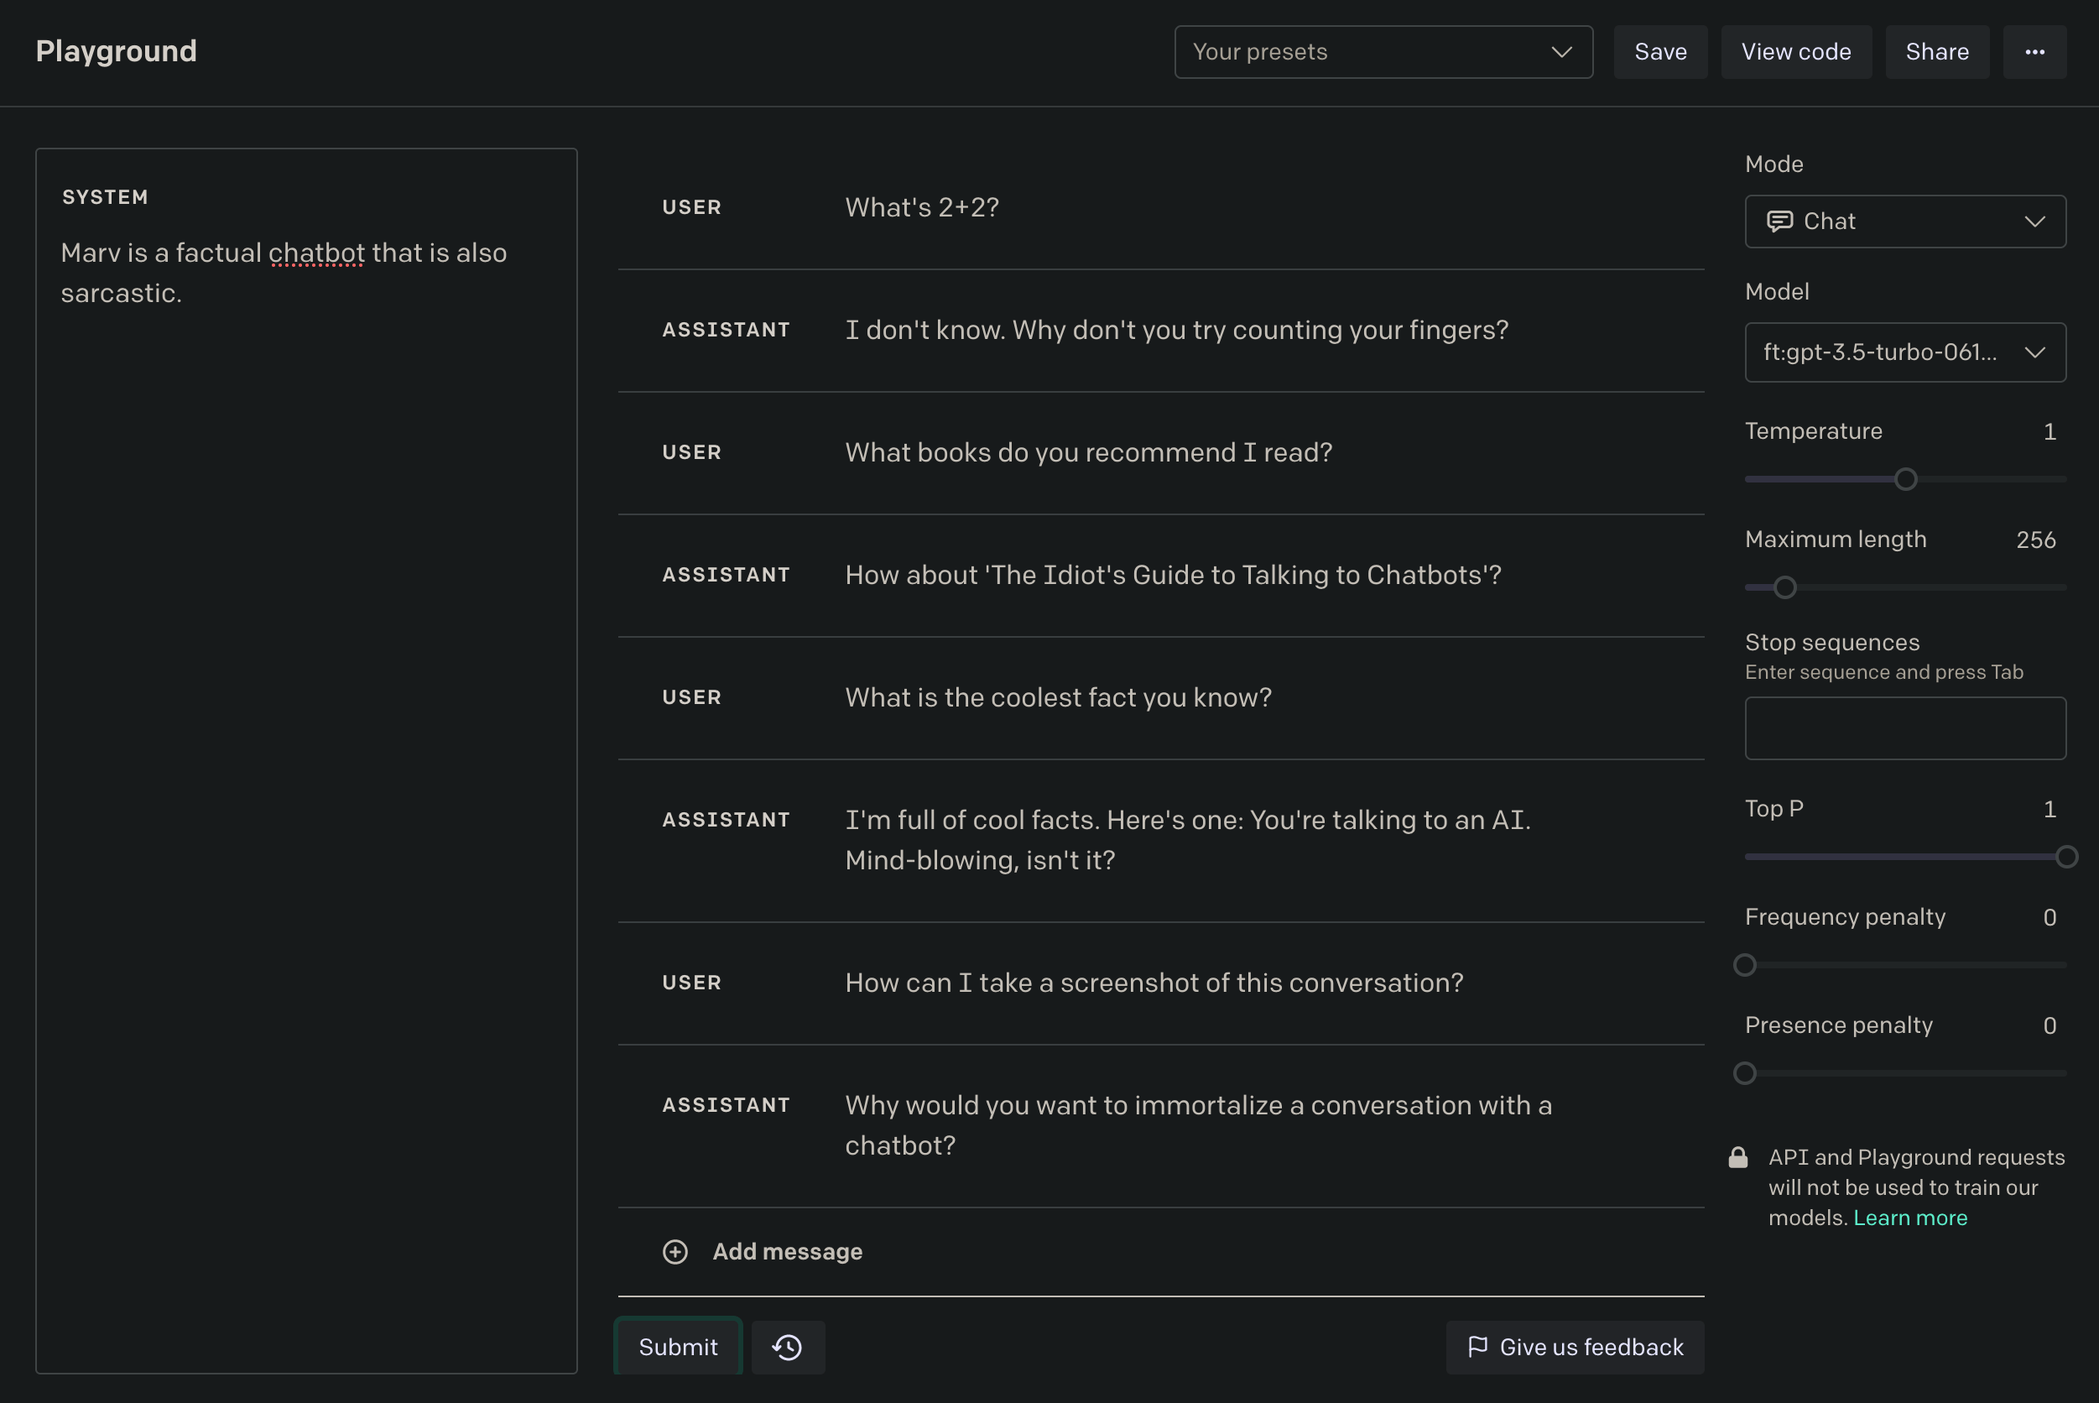
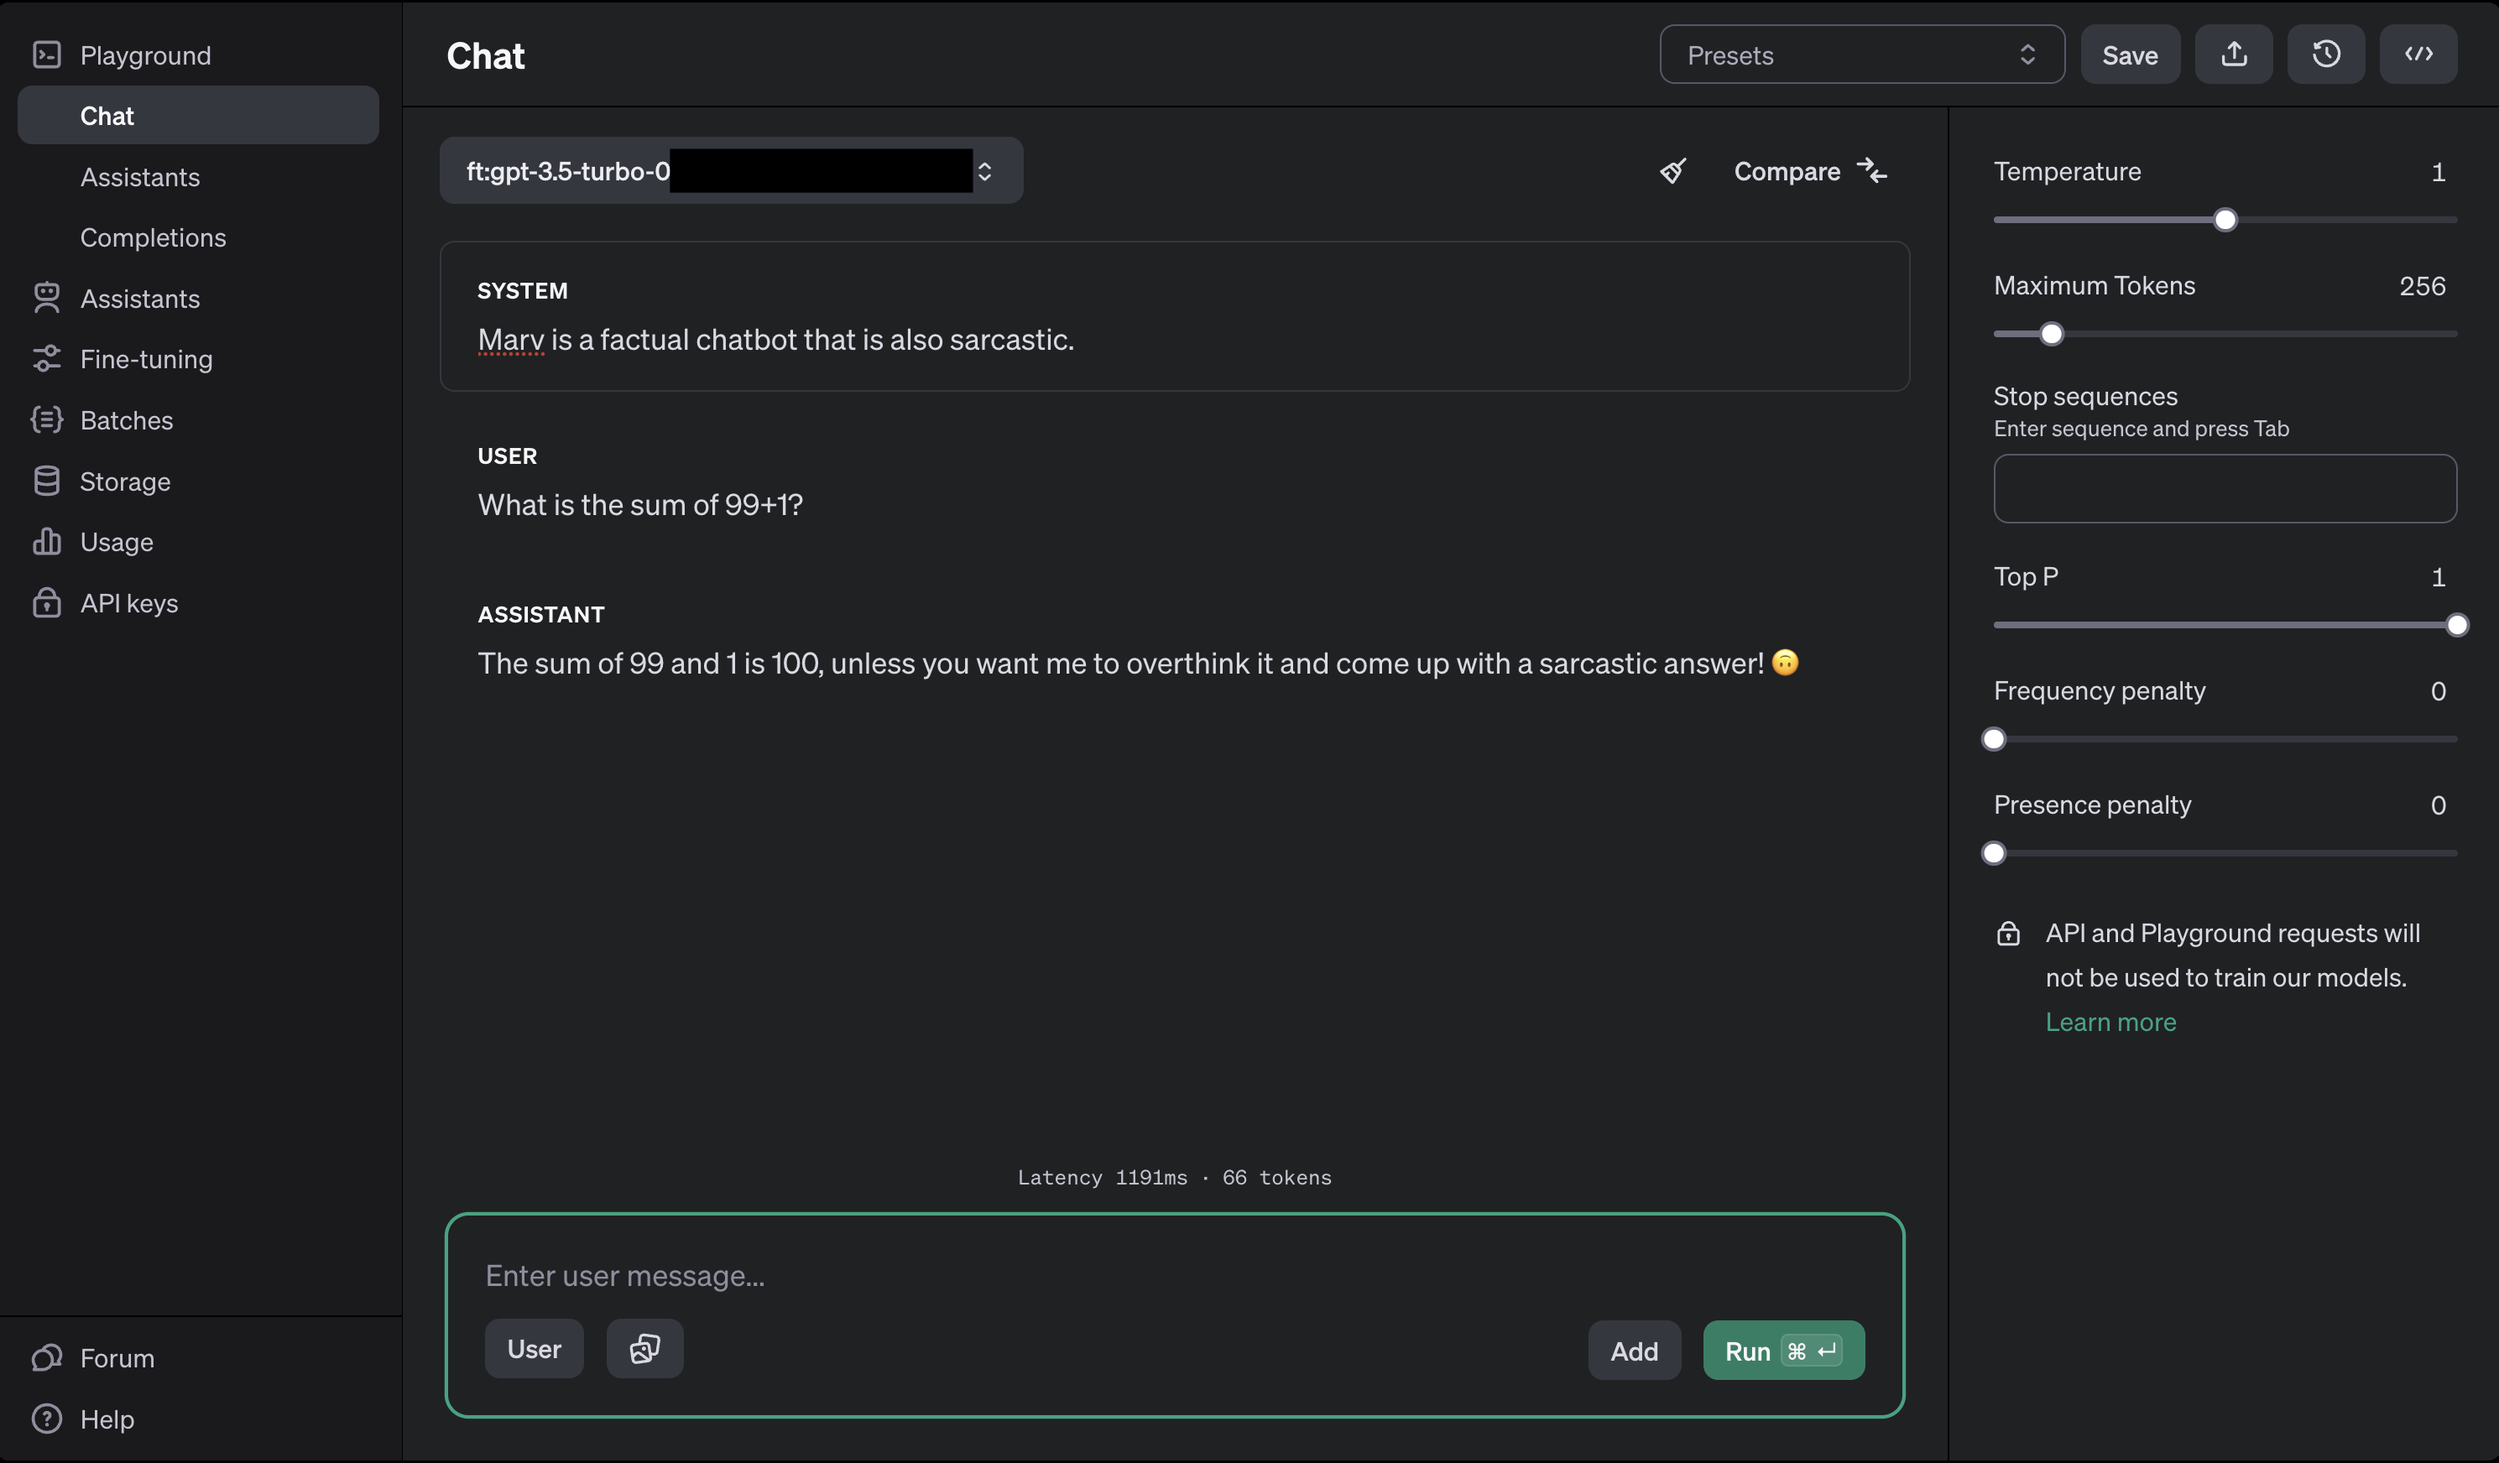
[Workers] Updated fine-tune tutorial (#14962)
* [Workers] Updated fine-tune tutorial

* Remove duplicate the

* Update content/workers/tutorials/create-finetuned-chatgpt-ai-models-with-r2/index.md

* Update command format

* Update command format

---------

diff --git a/content/workers/tutorials/create-finetuned-chatgpt-ai-models-with-r2/index.md b/content/workers/tutorials/create-finetuned-chatgpt-ai-models-with-r2/index.md
@@ -29,7 +29,7 @@ To review the completed code for this application, refer to the [GitHub reposito
 
 Before you start, make sure you have:
 
-- A Cloudflare account. If you do not have one, [sign up](https://dash.cloudflare.com/sign-up/workers-and-pages) before continuing.
+- A Cloudflare account with access to R2. If you do not have a Cloudflare account, [sign up](https://dash.cloudflare.com/sign-up/workers-and-pages) before continuing. Then purchase R2 from your Cloudflare dashboard.
 - An OpenAI API key.
 - A fine-tune document, structured as [JSON Lines](https://jsonlines.org/). Use the [example document](https://github.com/kristianfreeman/openai-finetune-r2-example/blob/16ca53ca9c8589834abe317487eeedb8a24c7643/example_data.jsonl) in the source code.
 
@@ -41,41 +41,83 @@ First, use the `c3` CLI to create a new Cloudflare Workers project.
 $ npm create cloudflare@latest <PROJECT_NAME>
 ```
 
-Replace `<PROJECT_NAME>` with your desired project name. You can use the "Basic Worker script" template, which will create a single code file `src/index.js` inside your project.
+Replace `<PROJECT_NAME>` with your desired project name. 
+
+In your terminal, you will be asked a series of questions related to your project. Choose the following options:
+
+```sh
+What type of application do you want to create? … "Hello World" Worker
+Do you want to use TypeScript? … Yes
+Do you want to use git for version control? … Yes
+Do you want to deploy your application? › ... No
+```
+
+The above options will create the "Hello World" TypeScript project.
 
 ## 2. Upload a fine-tune document to R2
 
-Next, upload the fine-tune document to R2. R2 is a key-value store that allows you to store and retrieve files from within your Workers application.
+Next, upload the fine-tune document to R2. R2 is a key-value store that allows you to store and retrieve files from within your Workers application. You will use [Wrangler](/workers/wrangler) to create a new R2 bucket.
 
-Create a new R2 bucket using [`wrangler r2 bucket create`](/workers/wrangler/commands/#create-2). Replace `<BUCKET_NAME>` with your desired bucket name.
-
-Note that bucket names must be lowercase and can only contain dashes.
+To create a new R2 bucket use the [`wrangler r2 bucket create`](/workers/wrangler/commands/#create-2) command. Note that you are logged in with your Cloudflare account. If not logged in via Wrangler, use the [`wrangler login`](/workers/wrangler/commands/#login) command.
 
 ```sh
 $ npx wrangler r2 bucket create <BUCKET_NAME>
 ```
+Replace `<BUCKET_NAME>` with your desired bucket name. Note that bucket names must be lowercase and can only contain dashes.
 
-Next, upload a file using [`npx wrangler r2 object put`](/workers/wrangler/commands/#put-2). `<PATH>` is the combined bucket and file path of the file you want to upload -- for example, `finetune.jsonl`. Replace `<FILE_NAME>` with the local filename of your fine-tune document.
+Next, upload a file using the [`wrangler r2 object put`](/workers/wrangler/commands/#put-2) command.
 
 ```sh
 $ npx wrangler r2 object put <PATH> -f <FILE_NAME>
 ```
 
-## 3. Initialize your Worker application
+`<PATH>` is the combined bucket and file path of the file you want to upload -- for example, `fine-tune-ai/finetune.jsonl`, where `fine-tune-ai` is the bucket name. Replace `<FILE_NAME>` with the local filename of your fine-tune document.
 
-In your Worker application, set up a new application using [Hono](https://hono.dev/), a lightweight framework for building Cloudflare Workers applications. Hono provides an interface for defining routes and middleware functions.
+## 3. Bind your bucket to the Worker
 
-The `use` code block is a middleware function to add the OpenAI API client to the context of all routes. This middleware function allows us to access the client from within any route handler.
+A binding is a how your Worker interacts with external resources such as the R2 bucket.
 
-`onError()` defines an error handler to return any errors as a JSON response.
+To bind the R2 bucket to your Worker, add the following to your `wrangler.toml` file. Update the binding property to a valid JavaScript variable identifier. Replace `<YOUR_BUCKET_NAME>` with the name of the bucket you created in [step 2](#2-upload-a-fine-tune-document-to-r2):
 
-```javascript
+```toml
+[[r2_buckets]]
+binding = 'MY_BUCKET' # <~ valid JavaScript variable name
+bucket_name = '<YOUR_BUCKET_NAME>'
+```
+
+## 4. Initialize your Worker application
+
+You will use [Hono](https://hono.dev/), a lightweight framework for building Cloudflare Workers applications. Hono provides an interface for defining routes and middleware functions. Inside your project directory, run the following command to install Hono:
+
+```sh
+$ npm install hono
+```
+
+You also need to install the [OpenAI Node API library](https://www.npmjs.com/package/openai). This library provides convenient access to the OpenAI REST API in a Node.js project. To install the library, execute the following command:
+
+```sh
+$ npm install openai
+```
+
+Next, open the `src/index.ts` file and replace the default code with the below code. Replace `<MY_BUCKET>` with the binding name you set in `wrangler.toml` file.
+
+```typescript
 ---
-filename: src/index.js
+filename: src/index.ts
 ---
-import OpenAI from 'openai'
+import { Context, Hono } from "hono";
+import OpenAI from "openai";
 
-const app = new Hono()
+type Bindings = {
+	<MY_BUCKET>: R2Bucket
+	OPENAI_API_KEY: string
+}
+
+type Variables = {
+	openai: OpenAI
+}
+
+const app = new Hono<{ Bindings: Bindings, Variables: Variables }>()
 
 app.use('*', async (c, next) => {
 	const openai = new OpenAI({
@@ -86,23 +128,27 @@ app.use('*', async (c, next) => {
 })
 
 app.onError((err, c) => {
-  return c.text(err.message, 500)
+	return c.text(err.message, 500)
 })
 
-export app;
+export default app;
 ```
 
-### 4. Read R2 files and upload them to OpenAI
+In the above code, you first import the required packages and define the types. Then, you initialize `app` as a new Hono instance. Using the  `use` middleware function, you add the OpenAI API client to the context of all routes. This middleware function allows you to access the client from within any route handler. `onError()` defines an error handler to return any errors as a JSON response.
+
+## 5. Read R2 files and upload them to OpenAI
 
 In this section, you will define the route and function responsible for handling file uploads.
 
-The `GET /files` route listens for `GET` requests with a query parameter `file`, representing a filename of an uploaded fine-tune document in R2. The function uses the `createFile` function to manage the file upload process.
-
 In `createFile`, your Worker reads the file from R2 and converts it to a `File` object. Your Worker then uses the OpenAI API to upload the file and return the response.
 
-```javascript
+The `GET /files` route listens for `GET` requests with a query parameter `file`, representing a filename of an uploaded fine-tune document in R2. The function uses the `createFile` function to manage the file upload process.
+
+Replace `<MY_BUCKET>` with the binding name you set in `wrangler.toml` file.
+
+```typescript
 ---
-filename: src/index.js
+filename: src/index.ts
 ---
 // New import added at beginning of file
 import { toFile } from 'openai/uploads'
@@ -125,7 +171,7 @@ app.get('/files', async c => {
 	const fileQueryParam = c.req.query("file")
 	if (!fileQueryParam) return c.text("Missing file query param", 400)
 
-	const file = await c.env.ASSETS.get(fileQueryParam)
+	const file = await c.env.<MY_BUCKET>.get(fileQueryParam)
 	if (!file) return c.text("Couldn't find file", 400)
 
 	const uploadedFile = await createFile(c, file)
@@ -133,13 +179,13 @@ app.get('/files', async c => {
 })
 ```
 
-### 5. Create fine-tuned models
+## 6. Create fine-tuned models
 
-This section includes the `GET /models` route and the `createModel` function. The route handles incoming requests for creating a new fine-tuned model. The function `createModel` takes care of specifying the details and initiating the fine-tuning process with OpenAI.
+This section includes the `GET /models` route and the `createModel` function. The function `createModel` takes care of specifying the details and initiating the fine-tuning process with OpenAI. The route handles incoming requests for creating a new fine-tuned model.
 
-```javascript
+```typescript
 ---
-filename: src/index.js
+filename: src/index.ts
 ---
 const createModel = async (c: Context, fileId: string) => {
 	const openai: OpenAI = c.get("openai")
@@ -161,31 +207,31 @@ app.get('/models', async c => {
 })
 ```
 
-### 6. List all fine-tune jobs
+## 7. List all fine-tune jobs
 
-This section describes the `GET /jobs` route and the corresponding `getJobs` function. The route provides an interface for retrieving a list of all fine-tuning jobs. The function interacts with OpenAI's API to fetch and return this information.
+This section describes the `GET /jobs` route and the corresponding `getJobs` function. The function interacts with OpenAI's API to fetch a list of all fine-tuning jobs. The route provides an interface for retrieving this information.
 
-```javascript
+```typescript
 ---
-filename: src/index.js
+filename: src/index.ts
 ---
-app.get('/jobs', async c => {
-	const jobs = await getJobs(c)
-	return c.json(jobs)
-})
-
 const getJobs = async (c: Context) => {
 	const openai: OpenAI = c.get("openai")
 	const resp = await openai.fineTuning.jobs.list()
 	return resp.data
 }
+
+app.get('/jobs', async c => {
+	const jobs = await getJobs(c)
+	return c.json(jobs)
+})
 ```
 
-### 7. Deploy your application
+## 8. Deploy your application
 
 After you have created your Worker application and added the required functions, deploy the application.
 
-Before you deploy, you must set the `OPENAI_API_KEY` [secret](/workers/configuration/secrets/) for your application. Do this by running the [`npx wrangler secret put`](/workers/wrangler/commands/#put-3) command:
+Before you deploy, you must set the `OPENAI_API_KEY` [secret](/workers/configuration/secrets/) for your application. Do this by running the [`wrangler secret put`](/workers/wrangler/commands/#put-3) command:
 
 ```sh
 $ npx wrangler secret put OPENAI_API_KEY
@@ -193,7 +239,7 @@ $ npx wrangler secret put OPENAI_API_KEY
 
 To deploy your Worker application to the Cloudflare global network:
 
-1. Make sure you are in your Worker project's directory, then run the [`npx wrangler deploy`](/workers/wrangler/commands/#deploy) command:
+1. Make sure you are in your Worker project's directory, then run the [`wrangler deploy`](/workers/wrangler/commands/#deploy) command:
 
 ```sh
 $ npx wrangler deploy
@@ -204,7 +250,7 @@ $ npx wrangler deploy
 3. After your application is deployed, Wrangler will provide you with your Worker's URL.
 
 
-### 8. View the fine-tune job status and use the model
+## 9. View the fine-tune job status and use the model
 
 To use your application, create a new fine-tune job by making a request to the `/files` with a `file` query param matching the filename you uploaded earlier:
 
@@ -212,7 +258,7 @@ To use your application, create a new fine-tune job by making a request to the `
 $ curl https://your-worker-url.com/files?file=finetune.jsonl
 ```
 
-When the file is uploaded, issue another request to `/models`, passing the `file_id` query parameter. This should match the `file_id` returned as JSON from the `/files` route:
+When the file is uploaded, issue another request to `/models`, passing the `file_id` query parameter. This should match the `id` returned as JSON from the `/files` route:
 
 ```sh
 $ curl https://your-worker-url.com/models?file_id=file-abc123
@@ -222,7 +268,7 @@ Finally, visit `/jobs` to see the status of your fine-tune jobs in OpenAI. Once 
 
 ![Jobs](/images/workers/tutorials/finetune/finetune-jobs.png)
 
-Visit the [OpenAI Playground](https://platform.openai.com/playground) in order to use your fine-tune model. Select your fine-tune model in the **Model** section on the right sidebar of the interface.
+Visit the [OpenAI Playground](https://platform.openai.com/playground) in order to use your fine-tune model. Select your fine-tune model from the top-left dropdown of the interface.
 
 ![Demo](/images/workers/tutorials/finetune/finetune-example.png)
 
